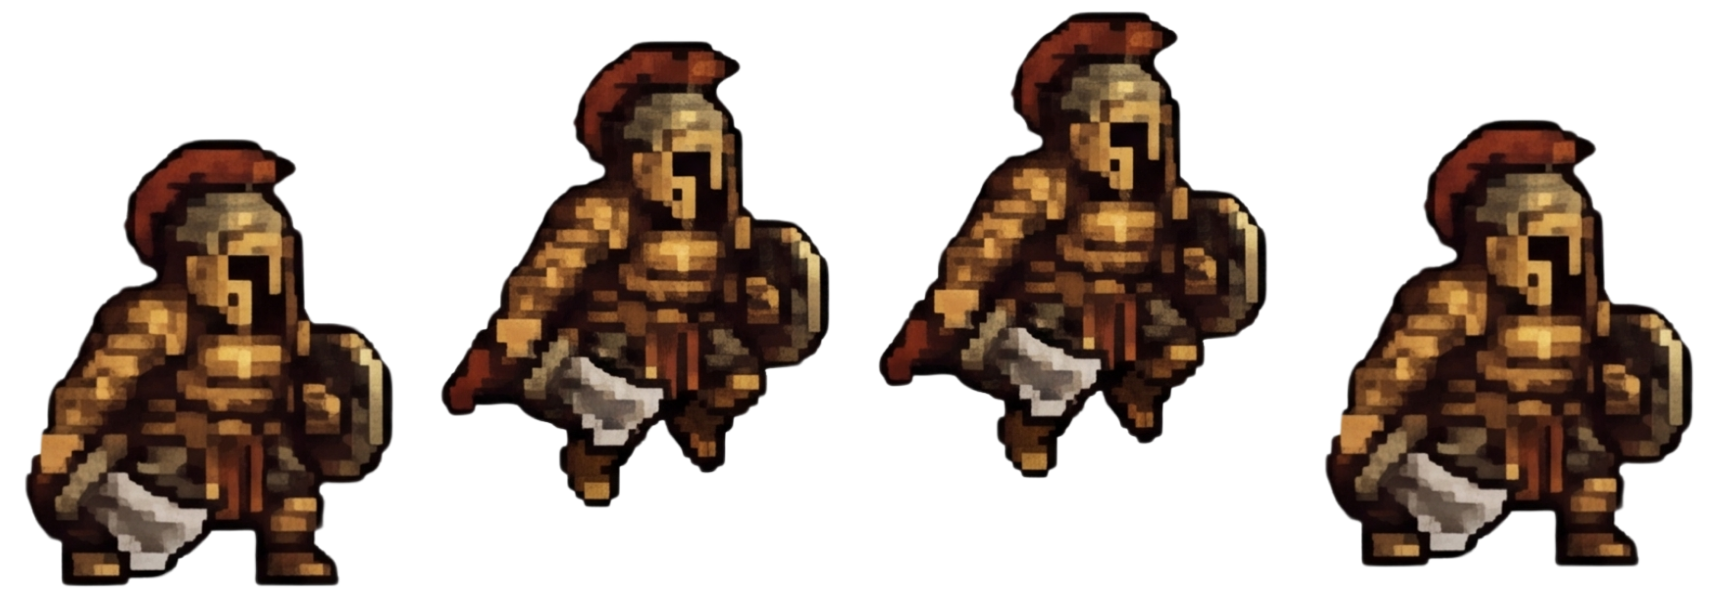
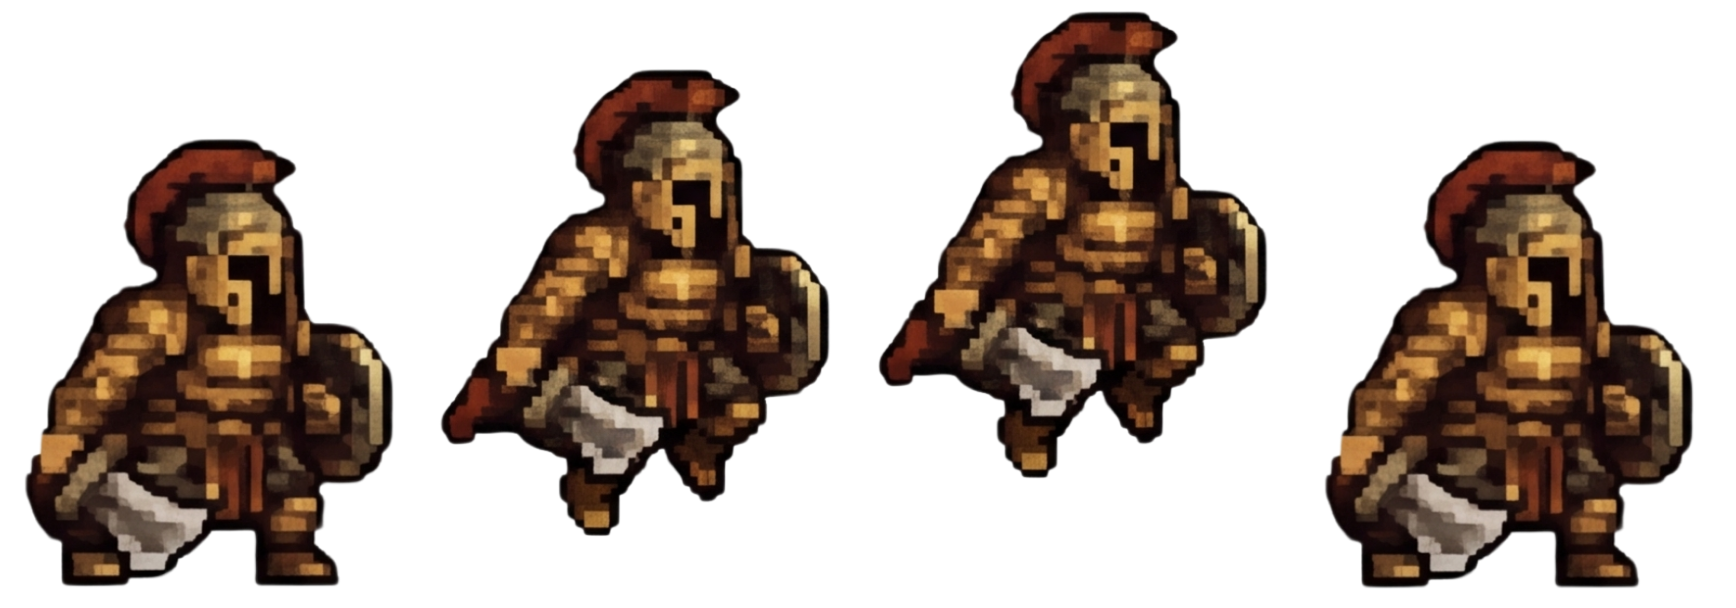
Arregle los sprites de los personajes, me di cuenta que estaban en un orden incorrecto y tuve que cambiar algunas imagenes

Changed region(s): [[0.7465, 0.1875, 0.9954, 0.9688], [0.2488, 0.0625, 0.4977, 0.875]]

diff --git a/client/objects/Player2.js b/client/objects/Player2.js
@@ -7,7 +7,7 @@ class Player2 extends PlayerBase {  //1736 x 608 px
         this.health = 100; //* TODO: traer esta info de la db
         this.speed = 4; 
         this.sheetCols = 4;
-        this.setAnimation(0, 2, true, 200);  //le puse 2 porque si no se mueve raro
+        this.setAnimation(0, 3, true, 200);  //le puse 2 porque si no se mueve raro
         //De aquí para abajo las propiedades son para que pueda quedarse quieto si no está en movimiento y que pueda saltar
         this.velocityY = 0; //qué tan rápido brinca
         this.gravity = 0.8; 
@@ -27,9 +27,9 @@ class Player2 extends PlayerBase {  //1736 x 608 px
         this.spriteJumpLeft.src = "./assets/player2/8.png";  //jump left
 
         this.attackRight = new Image();
-        this.attackRight.src = "./assets/player2/p2_attackright.png";  //attack right
+        this.attackRight.src = "./assets/player2/attackright.png";  //attack right
         this.attackLeft = new Image();
-        this.attackLeft.src = "./assets/player2/p2_attackleft.png";  //attack left
+        this.attackLeft.src = "./assets/player2/attackleft.png";  //attack left
 
         //initial sprite
         this.spriteImage = this.spriteRight;

diff --git a/client/objects/Player1.js b/client/objects/Player1.js
@@ -7,7 +7,7 @@ class Player1 extends PlayerBase {  //1736 x 608 px
         this.health = 120; //* TODO: traer esta info de la db
         this.speed = 5; 
         this.sheetCols = 4;
-        this.setAnimation(0, 2, true, 200);  //le puse 2 porque si no se mueve raro
+        this.setAnimation(0, 3, true, 200);  
         //De aquí para abajo las propiedades son para que pueda quedarse quieto si no está en movimiento y que pueda saltar
         this.velocityY = 0; //qué tan rápido brinca
         this.gravity = 0.8;

diff --git a/client/objects/Player3.js b/client/objects/Player3.js
@@ -7,7 +7,7 @@ class Player3 extends PlayerBase {  //1736 x 608 px
         this.health = 100; //* TODO: traer esta info de la db
         this.speed = 4; 
         this.sheetCols = 4;
-        this.setAnimation(0, 2, true, 200);
+        this.setAnimation(0, 3, true, 200);
         //De aquí para abajo las propiedades son para que pueda quedarse quieto si no está en movimiento y que pueda saltar
         this.velocityY = 0; //qué tan rápido brinca
         this.gravity = 0.8; 

diff --git a/client/objects/PlayerBase.js b/client/objects/PlayerBase.js
@@ -3,7 +3,7 @@ import { AnimatedObject } from "../libs/AnimatedObject.js";
 class PlayerBase extends AnimatedObject {
 
   constructor(position){
-    super(position,160,160,"white","player",6)
+    super(position, 160, 160,"white","player",6)
     this.direction = "right";  //default direction
     this.playeratack = false;  //default attack state
     this.attackFrames = 0;  //frames counter
